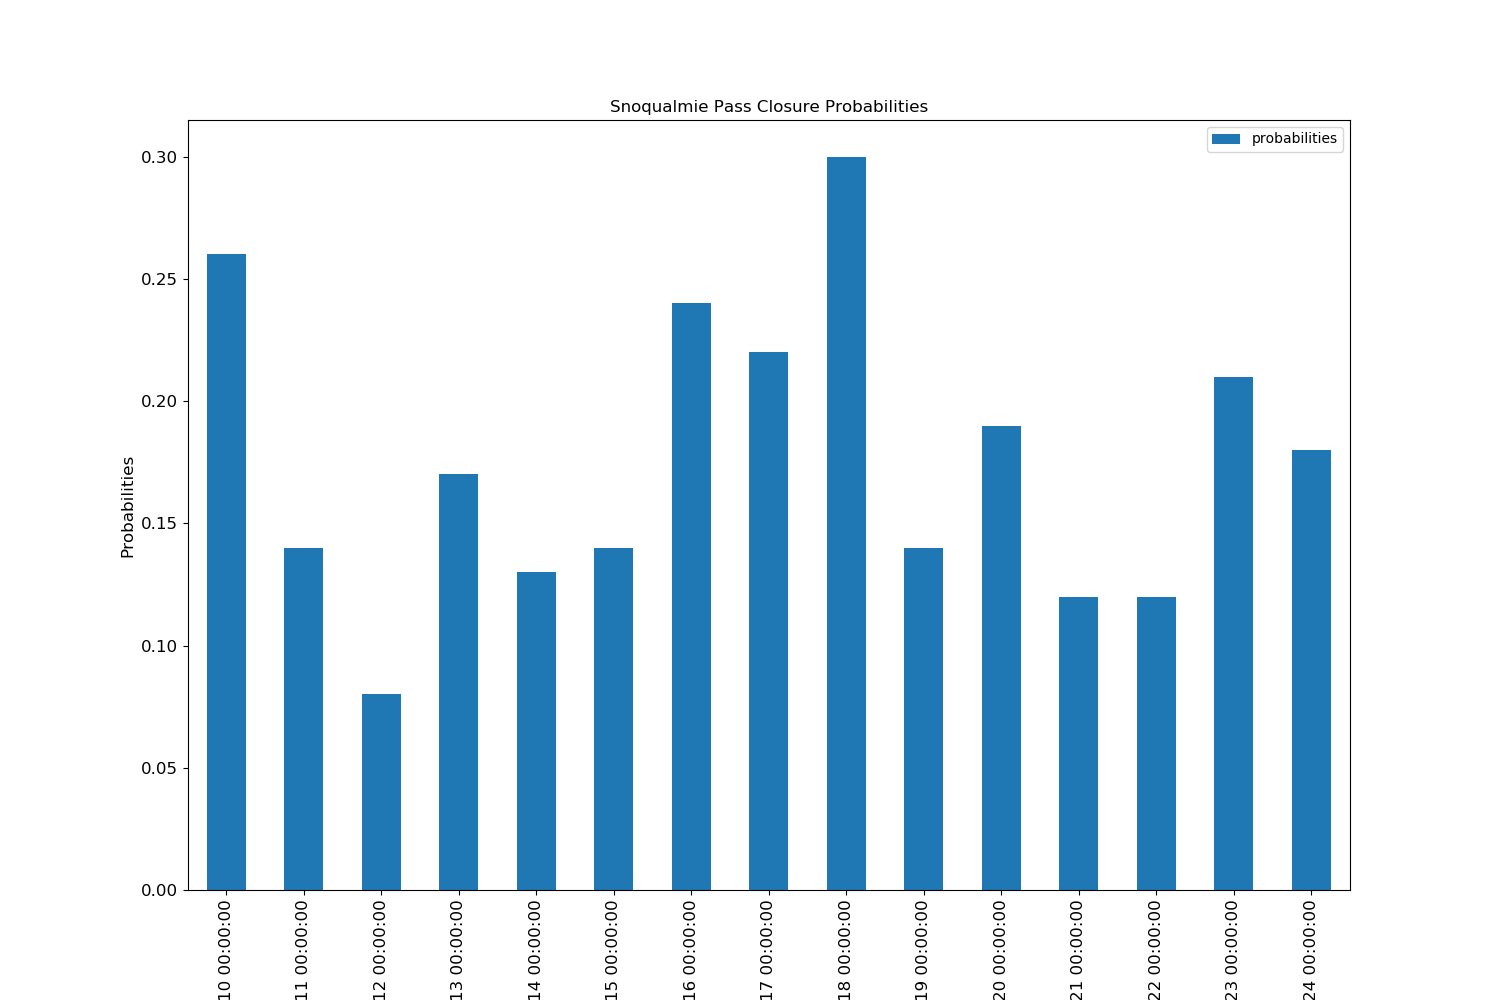
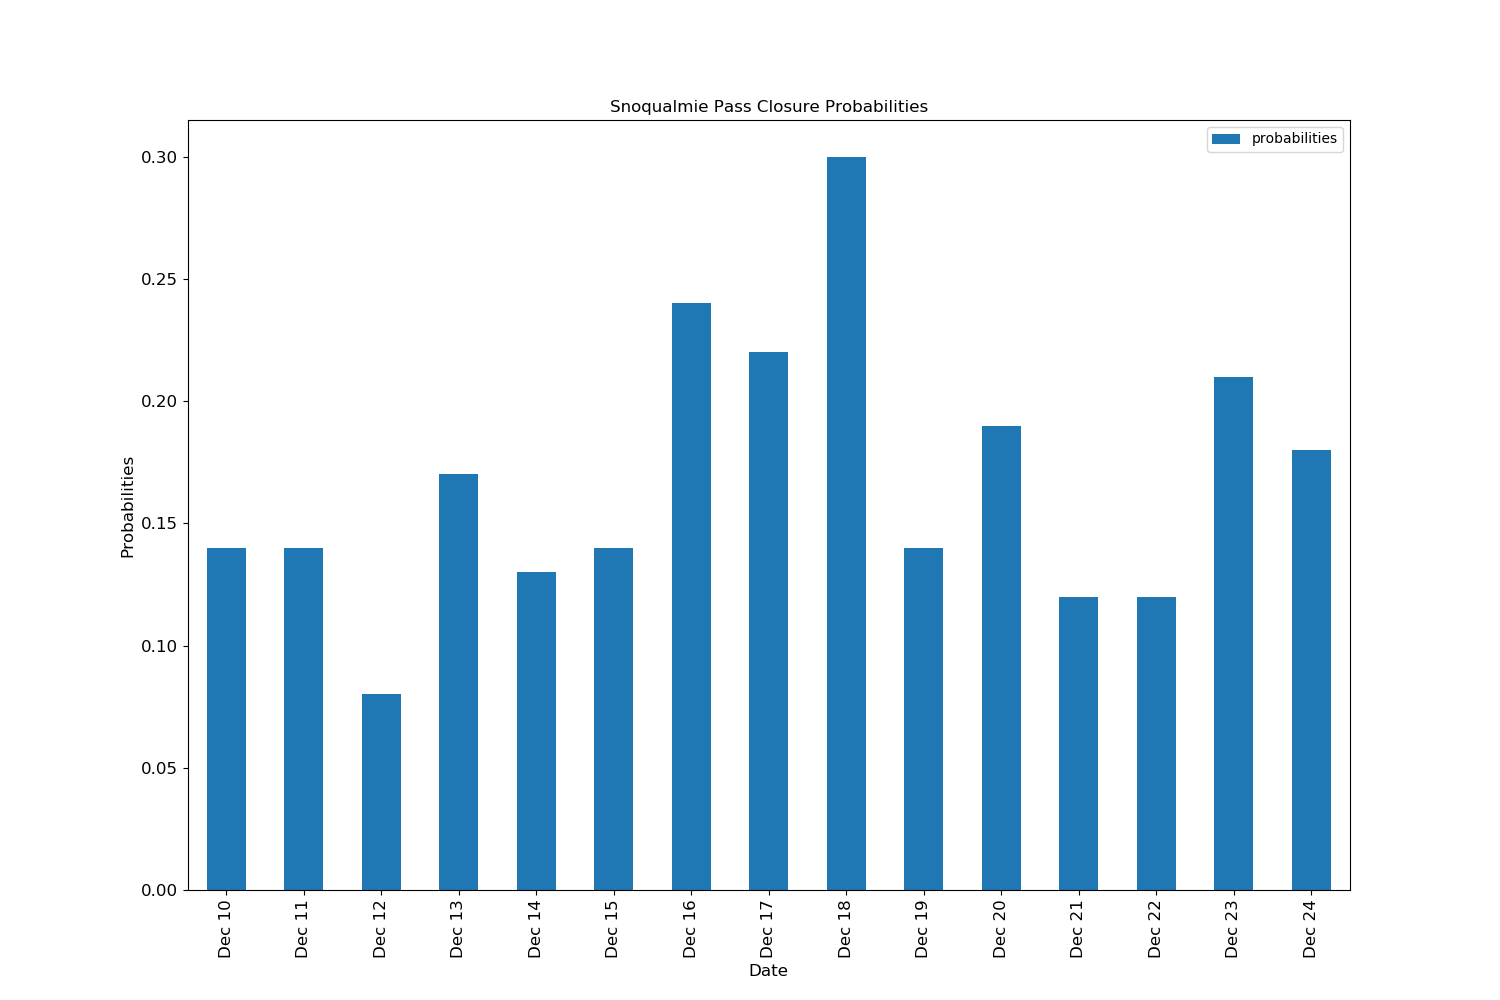
Update date format for display in website table and graph

diff --git a/src/website/web_app.py b/src/website/web_app.py
@@ -5,7 +5,7 @@ import pandas as pd
 import matplotlib.pyplot as plt
 import mpld3
 import prediction
-from io import BytesIO
+from datetime import datetime as dt
 
 app = Flask(__name__, static_url_path="")
 
@@ -28,6 +28,7 @@ def get_pred():
     predictions = prediction.get_predictions(df)
     df['probabilities'] = predictions[:,1]
     df = df.round(2)
+    df['date'] = df.date.dt.strftime("%b %d")
     output = df.loc[:, ['date', 'probabilities']]
     return output
 
